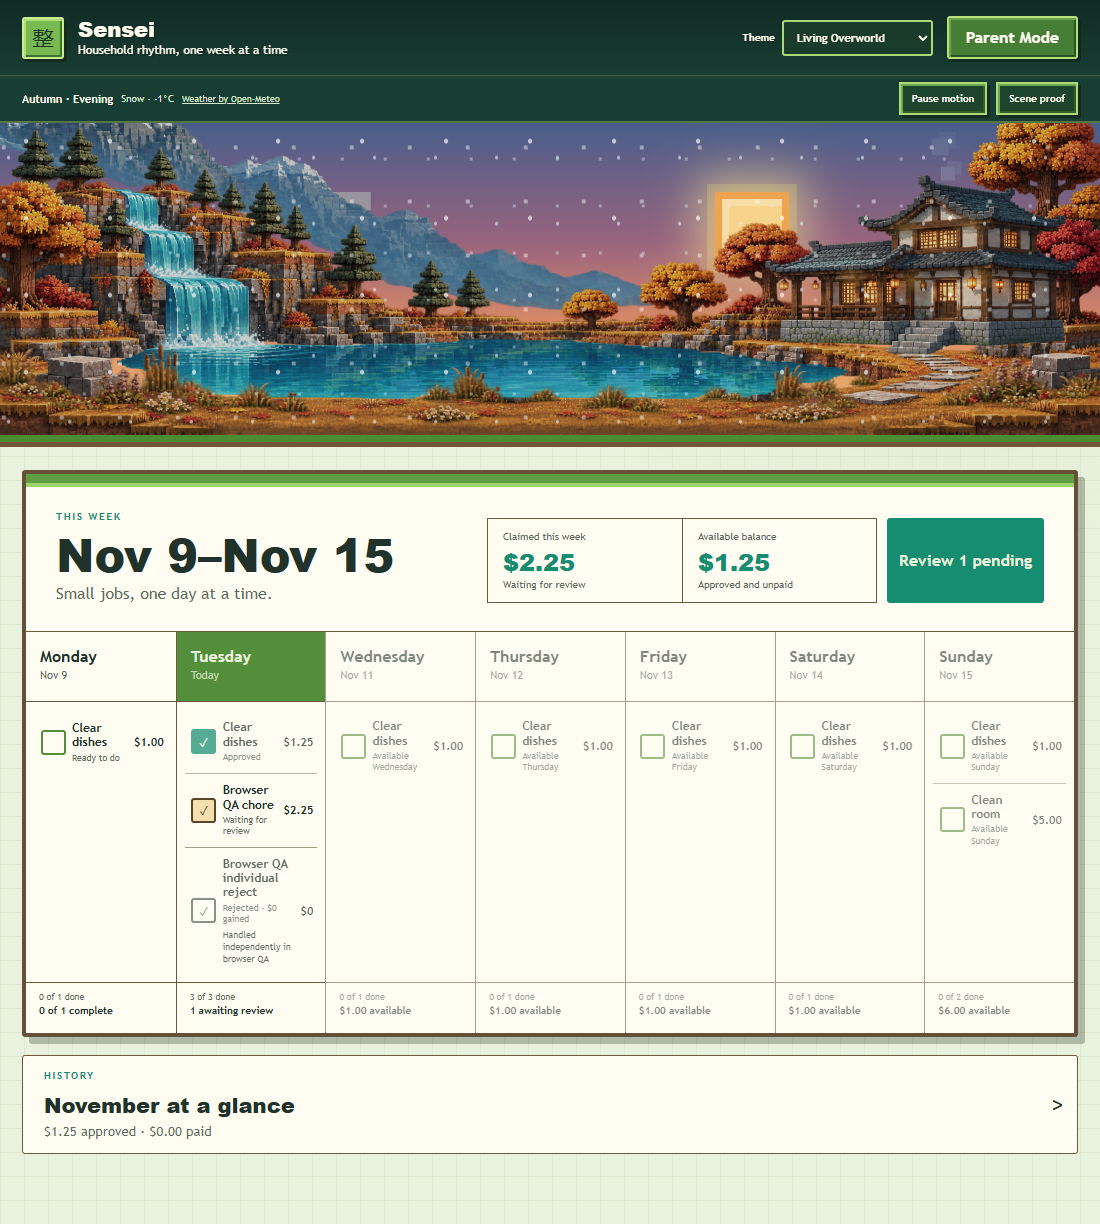
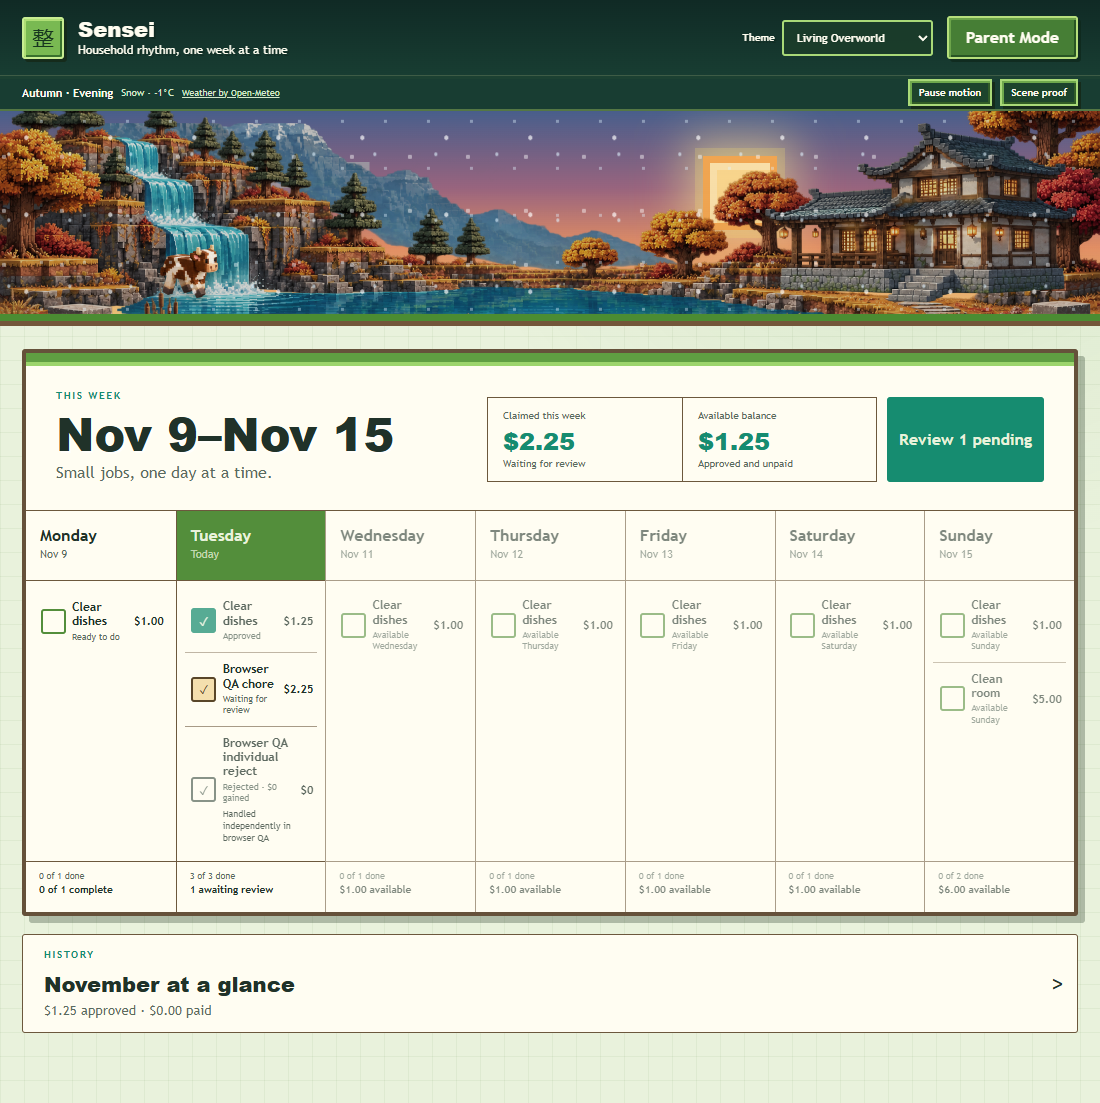
fix: compact Living Overworld scene

diff --git a/src/client/styles.css b/src/client/styles.css
@@ -640,7 +640,7 @@ html[data-theme="living-overworld"] .weeksheet-heading {
 }
 
 .living-overworld-banner {
-  position: relative; isolation: isolate; display: block; height: clamp(300px, 29vw, 405px); overflow: hidden;
+  position: relative; isolation: isolate; display: block; height: clamp(210px, 14vw, 250px); overflow: hidden;
   background: #66bdf0; border-bottom: 7px solid #4b8c32; box-shadow: 0 5px 0 #73563a;
 }
 .living-overworld-scene { position: absolute; inset: 0; overflow: hidden; background: #68bef1; contain: paint; }
@@ -649,10 +649,10 @@ html[data-theme="living-overworld"] .weeksheet-heading {
   background: linear-gradient(180deg, #55b5f1 0%, #8fd8f5 56%, #c9edf3 100%);
   transition: background .8s ease;
 }
-.living-overworld-world { position: absolute; z-index: 3; left: 0; bottom: 0; width: 100%; aspect-ratio: 3 / 1; pointer-events: none; }
+.living-overworld-world { position: absolute; z-index: 3; inset: 0; width: 100%; height: 100%; pointer-events: none; }
 .living-overworld-layer {
   --scene-filter: none;
-  position: absolute; inset: 0; width: 100%; height: 100%; object-fit: contain; filter: var(--scene-filter);
+  position: absolute; inset: 0; width: 100%; height: 100%; object-fit: cover; object-position: center 58%; filter: var(--scene-filter);
   pointer-events: none; user-select: none; transition: filter 1.1s ease, opacity 1.1s ease;
 }
 .adjacent-season-layer { will-change: opacity; }
@@ -715,7 +715,7 @@ html[data-theme="living-overworld"] .weeksheet-heading {
 .weather-rain .living-overworld-cloud,
 .weather-snow .living-overworld-cloud { opacity: .82; filter: brightness(.68) saturate(.52); }
 .weather-fog .living-overworld-cloud { opacity: .46; filter: brightness(.9) saturate(.4); }
-.layer-mountains { z-index: 3; }
+.layer-mountains { z-index: 3; transform: translateY(6%); }
 .layer-terrain { z-index: 5; }
 .layer-water { z-index: 6; }
 .layer-retreat { z-index: 7; }
@@ -859,8 +859,8 @@ html[data-theme="living-overworld"] .weeksheet-heading {
 .motion-off .living-overworld-creature { animation: none !important; }
 
 .living-overworld-toolbar {
-  position: relative; z-index: 18; min-height: 42px; display: flex; align-items: center; justify-content: flex-end; gap: 9px;
-  padding: 6px max(22px, calc((100vw - 1280px) / 2)); color: #fffdf0; background: #183d32;
+  position: relative; z-index: 18; min-height: 34px; display: flex; align-items: center; justify-content: flex-end; gap: 8px;
+  padding: 3px max(22px, calc((100vw - 1280px) / 2)); color: #fffdf0; background: #183d32;
   border-bottom: 2px solid #547744;
 }
 .living-overworld-status {
@@ -874,7 +874,7 @@ html[data-theme="living-overworld"] .weeksheet-heading {
 .living-overworld-proof-controls { position: relative; z-index: 24; }
 .living-overworld-motion-control,
 .living-overworld-proof-controls summary {
-  list-style: none; cursor: pointer; padding: 9px 11px; border: 2px solid #a9d978; background: rgba(30,69,43,.88);
+  list-style: none; cursor: pointer; padding: 6px 9px; border: 2px solid #a9d978; background: rgba(30,69,43,.88);
   color: #fffdf0; box-shadow: inset 2px 2px #6fa84c, inset -2px -2px #315c27, 3px 3px 0 #152b1b; font-size: 10px; font-weight: 850;
 }
 .living-overworld-proof-controls summary::-webkit-details-marker { display: none; }
@@ -889,12 +889,13 @@ html[data-theme="living-overworld"] .weeksheet-heading {
 @media (max-width: 700px) {
   html[data-theme="living-overworld"] .topbar { margin-bottom: 0; }
   html[data-theme="living-overworld"] main { margin-top: 0; padding-top: 16px; }
-  .living-overworld-toolbar { min-height: 38px; padding: 4px 10px; }
+  .living-overworld-toolbar { min-height: 30px; padding: 2px 10px; }
   .living-overworld-status { gap: 6px; }
   .living-overworld-status em, .living-overworld-status a { display: none; }
-  .living-overworld-motion-control, .living-overworld-proof-controls summary { padding: 7px 8px; font-size: 9px; }
+  .living-overworld-motion-control, .living-overworld-proof-controls summary { padding: 5px 7px; font-size: 9px; }
   .living-overworld-banner { height: 140px; }
-  .living-overworld-world { left: -4%; width: 108%; }
+  .living-overworld-world { left: -4%; width: 108%; height: 100%; }
+  .living-overworld-layer { object-position: center 58%; }
   .living-overworld-sun { top: 9%; left: 62%; width: 40px; border-width: 4px; }
   .living-overworld-moon { top: 7%; left: 58%; width: 58px; }
   .light-morning .living-overworld-sun { top: 17%; left: 47%; }

diff --git a/scripts/browser-smoke.ts b/scripts/browser-smoke.ts
@@ -412,7 +412,7 @@ try {
   }));
   if (livingControlLayout.toolbarBottom > livingControlLayout.sceneTop + 1) throw new Error('Living Overworld controls overlap the scenic area');
   const livingBannerHeight = await livingBanner.evaluate((element) => element.getBoundingClientRect().height);
-  if (livingBannerHeight < 290 || livingBannerHeight > 415) throw new Error(`Living Overworld desktop height is invalid: ${livingBannerHeight}`);
+  if (livingBannerHeight < 200 || livingBannerHeight > 260) throw new Error(`Living Overworld desktop height is invalid: ${livingBannerHeight}`);
   await childOne.waitForFunction(() => Array.from(document.querySelectorAll<HTMLImageElement>('.living-overworld-layer'))
     .every((image) => image.complete && image.naturalWidth > 0));
   const livingAssetWidths = await livingBanner.locator('.living-overworld-layer')

diff --git a/docs/LIVING_OVERWORLD_VISUAL_REVIEW.md b/docs/LIVING_OVERWORLD_VISUAL_REVIEW.md
@@ -55,7 +55,7 @@ The existing detailed round moon and eight deterministic phases remain intact. T
 - Semantic sky, mountain, terrain, water, retreat, vegetation, atmosphere, celestial, precipitation, and foreground layers.
 - Four seasonal landscapes, four lighting periods, seven-day adjacent-season transitions, and controlled image mounting.
 - Clear, partly cloudy, cloudy, rain, snow, and fog treatments driven by actual weather appearance data.
-- 140 px mobile landscape, proportional crop, no horizontal overflow, and controls outside the scene.
+- 210–250 px desktop and 140 px mobile landscapes, proportional viewport crops, no horizontal overflow, and compact controls outside the scene.
 - Always-available motion control, `prefers-reduced-motion`, and hidden-page animation suspension.
 - Season, weather, light, and moon overrides available only with `?living-preview=1`.
 - Decorative elements remain outside keyboard navigation and the accessibility reading order.

diff --git a/docs/THEMES.md b/docs/THEMES.md
@@ -59,7 +59,7 @@ Living Overworld is a separate layered-world treatment rather than a replacement
 - A detailed round moon supports eight deterministic phases.
 - Sheep, pigs, cows, and chickens wander within lightweight land corridors; the axolotl remains in the lake.
 - Season, light, and weather cap the population without background simulation or pathfinding.
-- The scene is approximately 140 CSS pixels tall on mobile, with controls outside the scenic area.
+- The scene is approximately 210–250 CSS pixels tall on desktop and 140 pixels on mobile, with a compact control strip outside the scenic area.
 - The motion preference, reduced-motion media query, and hidden-page handling stop creature and environmental movement.
 
 | Living ecosystem — desktop | Living ecosystem — mobile |
